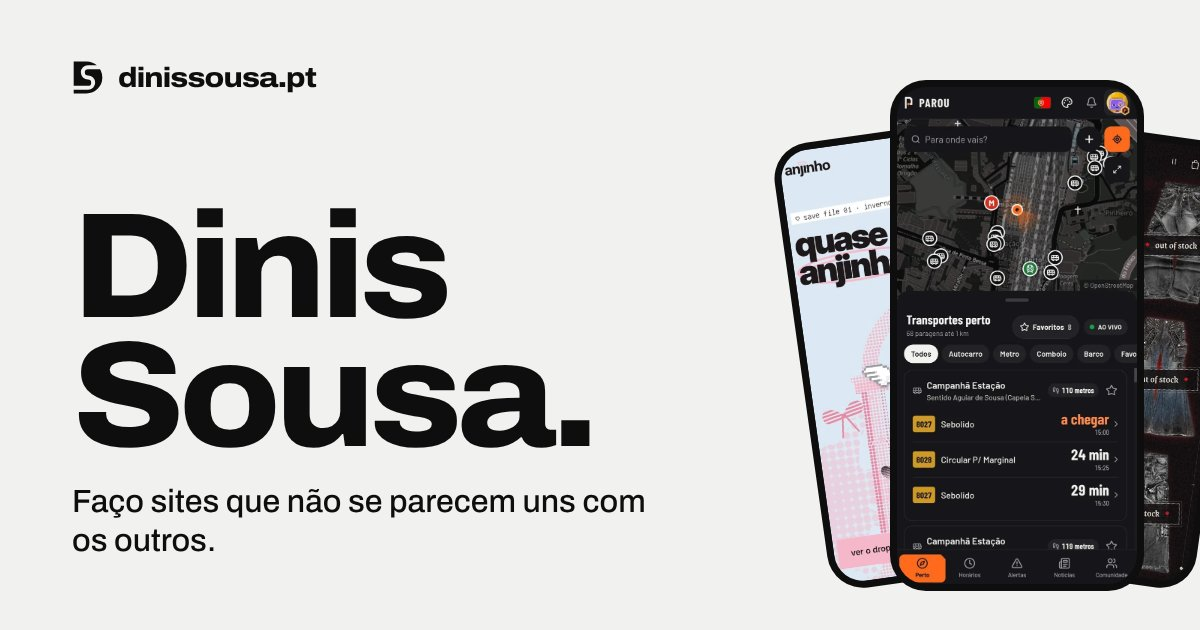
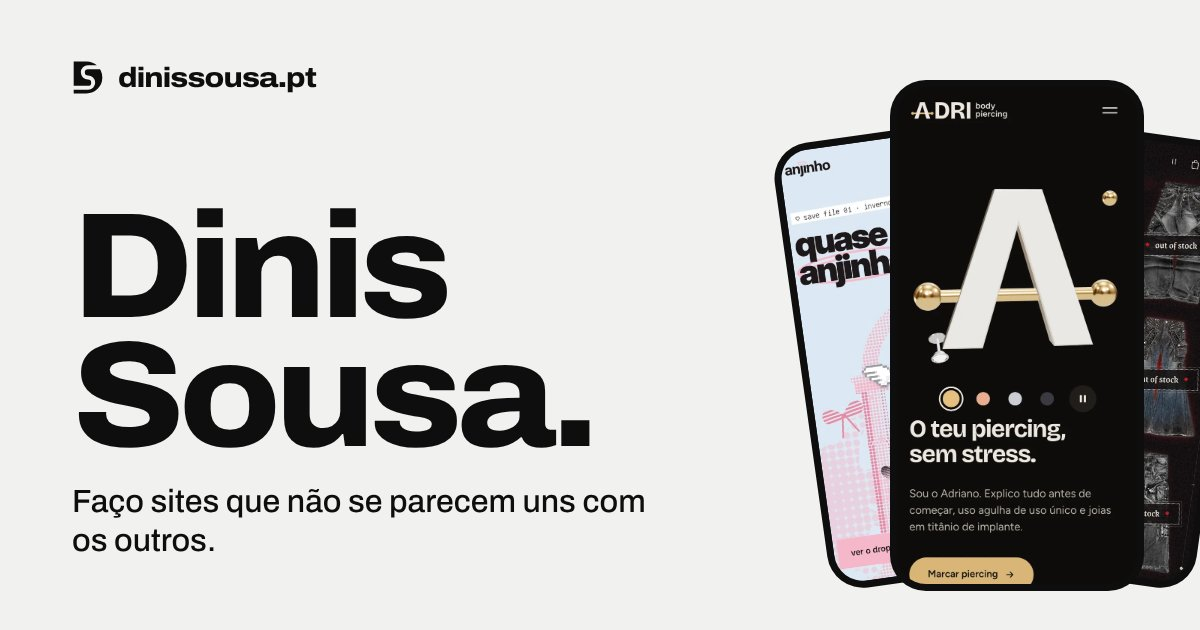
dinissousa.pt: pré-visualização do link a funcionar em qualquer endereço
As etiquetas de partilha (og:image, og:url) apontavam para dinissousa.pt, que
ainda não resolve; o Caddy passa a preencher o endereço de quem pede.
Imagem de partilha nova com o AdriBodyPiercing ao centro.

Changed region(s): [[0.74, 0.1206, 0.9558, 0.9349]]

diff --git a/sites/dinissousa/index.html b/sites/dinissousa/index.html
@@ -11,14 +11,21 @@
 <link rel="icon" href="favicon.svg" type="image/svg+xml">
 <link rel="apple-touch-icon" href="apple-touch-icon.png">
 <meta property="og:type" content="website">
+<meta property="og:site_name" content="Dinis Sousa">
 <meta property="og:locale" content="pt_PT">
-<meta property="og:url" content="https://dinissousa.pt/">
-<meta property="og:title" content="Dinis Sousa, sites feitos de raiz">
-<meta property="og:description" content="Uma marca gótica, uma loja coquette, uma app de transportes, um estúdio de piercing e um site de casas para arrendar. O próximo pode ser o teu.">
-<meta property="og:image" content="https://dinissousa.pt/og.jpg">
+<meta property="og:url" content="https://{{.Host}}/">
+<meta property="og:title" content="Dinis Sousa · Sites feitos de raiz">
+<meta property="og:description" content="Um estúdio de piercing, uma loja coquette, uma marca gótica, uma app de transportes e um advogado com IA. O próximo site pode ser o teu.">
+<meta property="og:image" content="https://{{.Host}}/og.jpg">
+<meta property="og:image:secure_url" content="https://{{.Host}}/og.jpg">
+<meta property="og:image:type" content="image/jpeg">
 <meta property="og:image:width" content="1200">
 <meta property="og:image:height" content="630">
+<meta property="og:image:alt" content="Dinis Sousa. Faço sites que não se parecem uns com os outros, com três telemóveis a mostrar sites feitos por ele.">
 <meta name="twitter:card" content="summary_large_image">
+<meta name="twitter:title" content="Dinis Sousa · Sites feitos de raiz">
+<meta name="twitter:description" content="Sites desenhados de raiz para marcas e negócios em Portugal. O próximo pode ser o teu.">
+<meta name="twitter:image" content="https://{{.Host}}/og.jpg">
 <link rel="preload" href="fonts/archivo.woff" as="font" type="font/woff" crossorigin>
 <script type="application/ld+json">
 {"@context":"https://schema.org","@type":"ProfessionalService","name":"Dinis Sousa","url":"https://dinissousa.pt/","description":"Sites feitos de raiz para marcas e negócios em Portugal.","areaServed":"PT","priceRange":"149 € – 499 €","telephone":"+351913488258","email":"diniscash@gmail.com","founder":{"@type":"Person","name":"Dinis Sousa"}}
